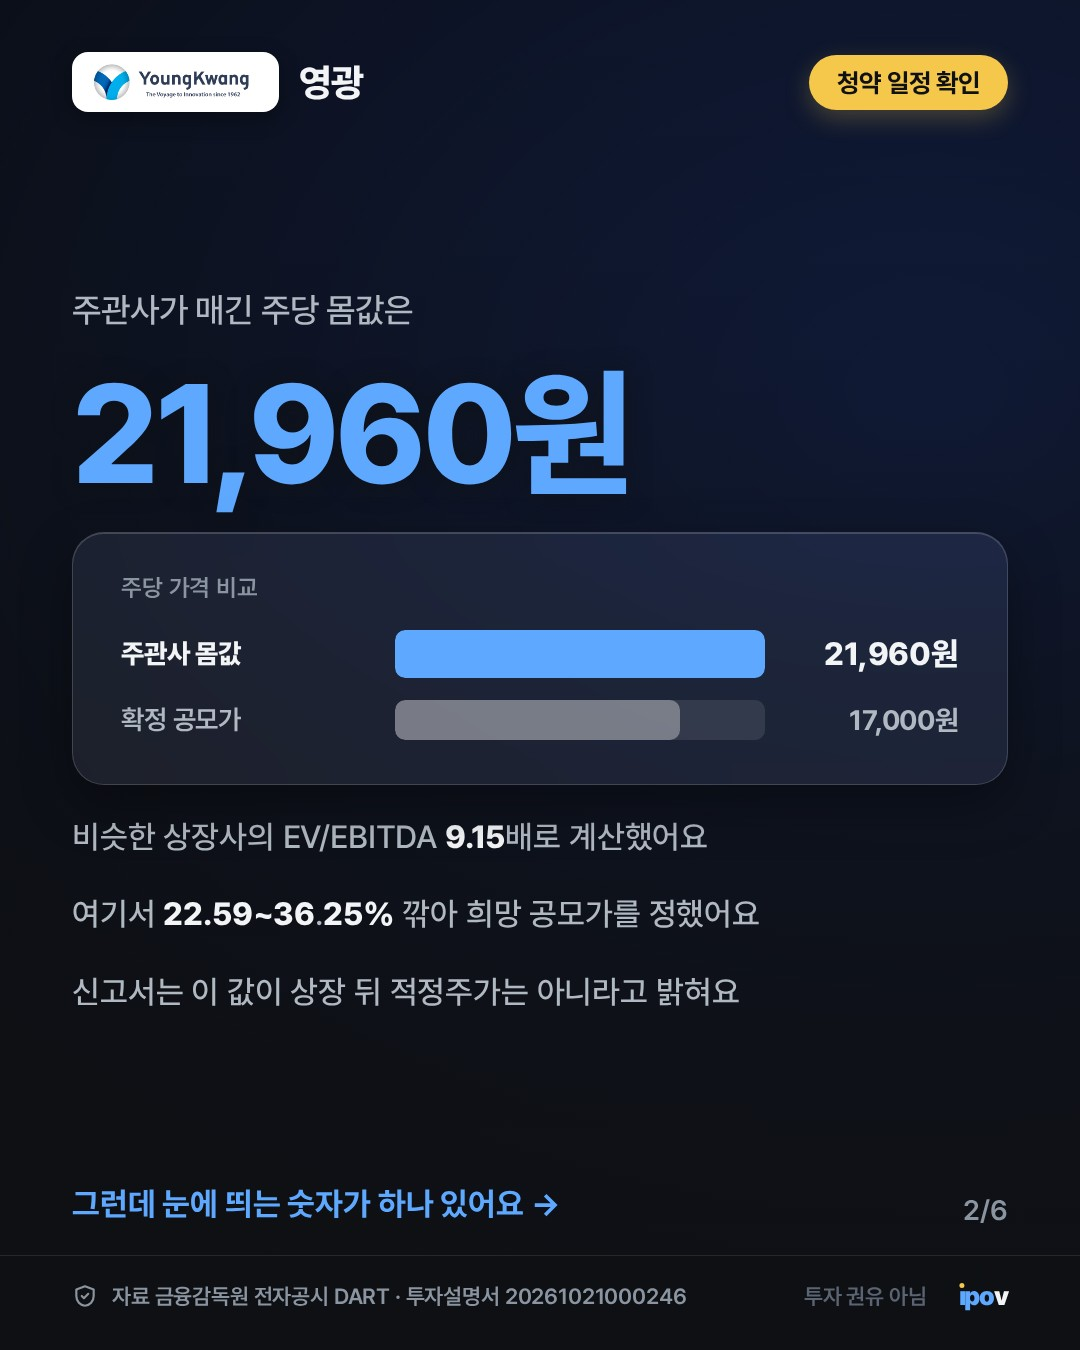
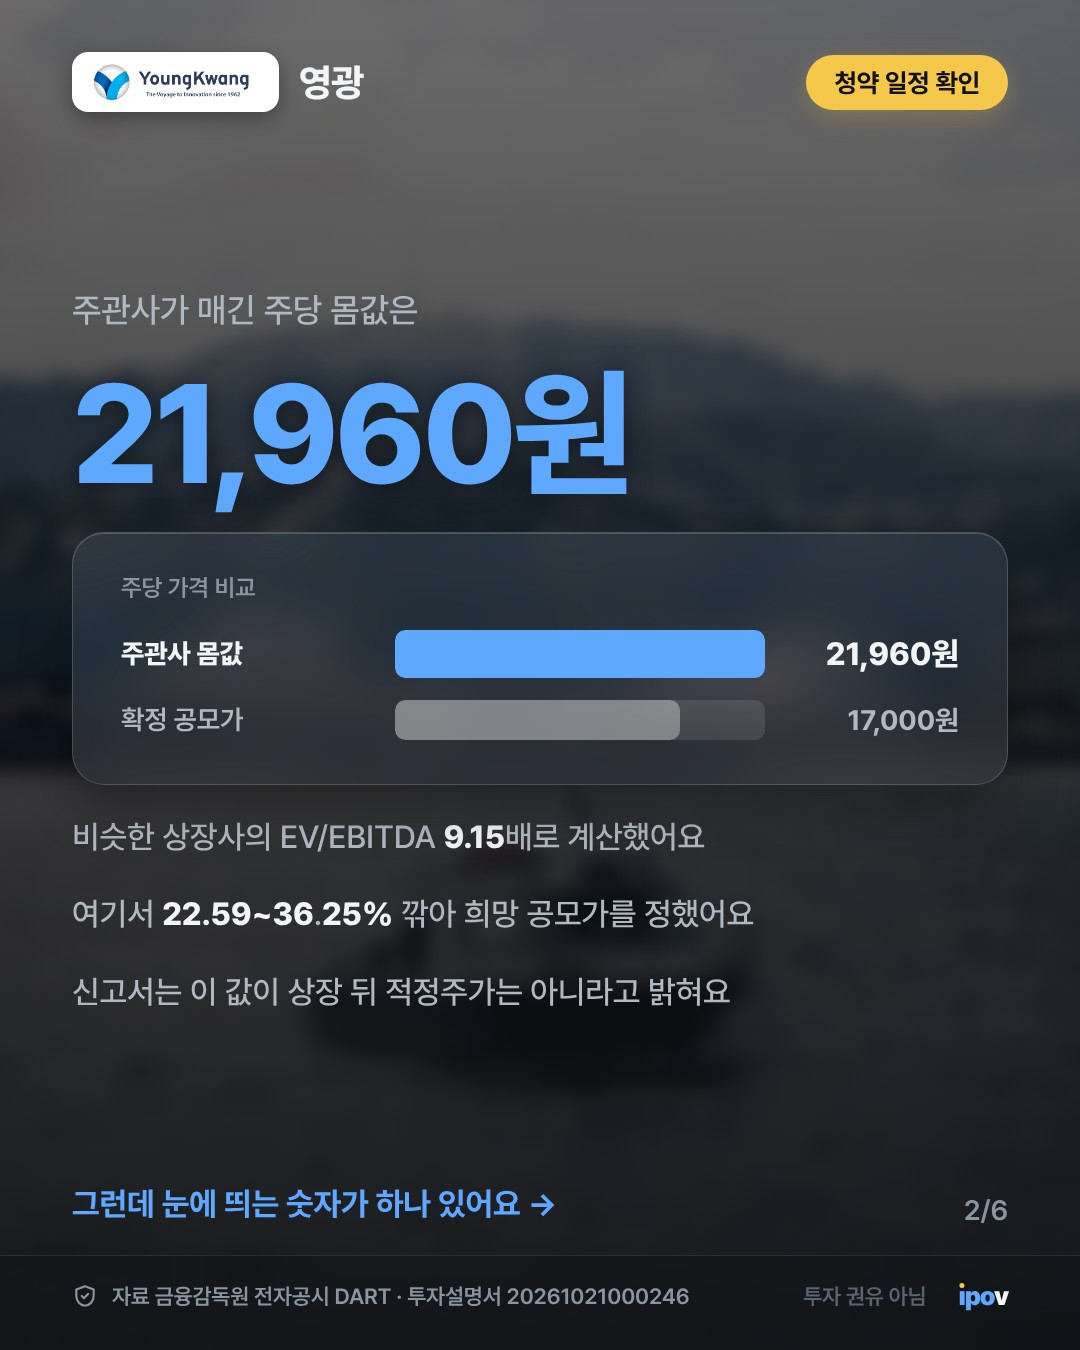
카드 사진 빠짐: 1장 사진 후보가 비전 판정에서 모두 떨어지면 배경 사진을 재사용, 못 구하면 텔레그램 알림. 오늘 영광·옵토닉스 카드 다시 만듦
Claude-Session: https://claude.ai/code/session_01RWgUqskGvnkiAiNs9uoSDE

diff --git a/gongsi/render.py b/gongsi/render.py
@@ -55,6 +55,10 @@ def render(cards: list[Card], corp: str, industry: str, out_dir: Path, prefix: s
 
         # 정보형 카드(3~7·9·10)의 흐린 배경은 1장 전경과 다른 사진으로 (card_n=0). 이미지형 카드는 1·2·8
         bg_path, bg_how = illustration(0, industry)
+        if bg_how.startswith("none"):  # 배경을 못 구하면 1장 사진이라도 흐리게 깐다
+            alt_path, alt_how = illustration(1, industry)
+            if not alt_how.startswith("none"):
+                bg_path, bg_how = alt_path, f"hero 사진 재사용 ({bg_how[:120]})"
         bg_uri = data_uri(bg_path)
         image_log[0] = f"background={bg_how}"
         from gongsi.logos import logo_info
@@ -65,6 +69,9 @@ def render(cards: list[Card], corp: str, industry: str, out_dir: Path, prefix: s
             image = bg_uri
             if c.kind == "image":
                 img_path, how = illustration({"hero": 1, "about": 2, "risk": 8}.get(c.role, c.n), industry)
+                if how.startswith("none") and not bg_how.startswith("none"):
+                    # 사진 후보가 비전 판정에서 모두 떨어졌을 때 그라데이션 대신, 이미 판정을 통과한 배경 사진을 쓴다
+                    img_path, how = bg_path, f"배경 사진 재사용 ({how[:120]})"
                 image, image_log[c.n] = data_uri(img_path), how
             html = tpl.render(card=c, corp=corp, w=settings.card_width, h=settings.card_height,
                               image=image, fonts=fonts, logo=logo_uri, logo_tone=logo_tone, total=len(cards))

diff --git a/gongsi/pipeline.py b/gongsi/pipeline.py
@@ -253,6 +253,9 @@ def run(adapter: Adapter, date_from: str, date_to: str, only_rcept: str | None, 
                     db.add_followup(db.conn.execute("SELECT id FROM disclosure WHERE rcept_no=?", (d.rcept_no,)).fetchone()["id"],
                                     "listing_result", facts.listing_date)
                 log("render", corp=d.corp_name, files=[p.name for p in paths], images=image_log, caption_file=f"{d.rcept_no}_caption.txt")
+                missing = [n for n, how in image_log.items() if how.replace("background=", "").startswith("none")]
+                if missing:
+                    _tell(f"⚠ {d.corp_name}: 카드 사진을 못 구해 기본 그라데이션으로 나감 (카드 {', '.join(map(str, missing))}). 검토 때 확인 필요")
                 # 게시 단계(python -m gongsi.publish stage)가 읽는 목록
                 with (settings.out_dir / "produced.jsonl").open("a", encoding="utf-8") as f:
                     f.write(json.dumps({"run": run_id, "rcept_no": d.rcept_no, "corp": d.corp_name, "date": today.isoformat(),
